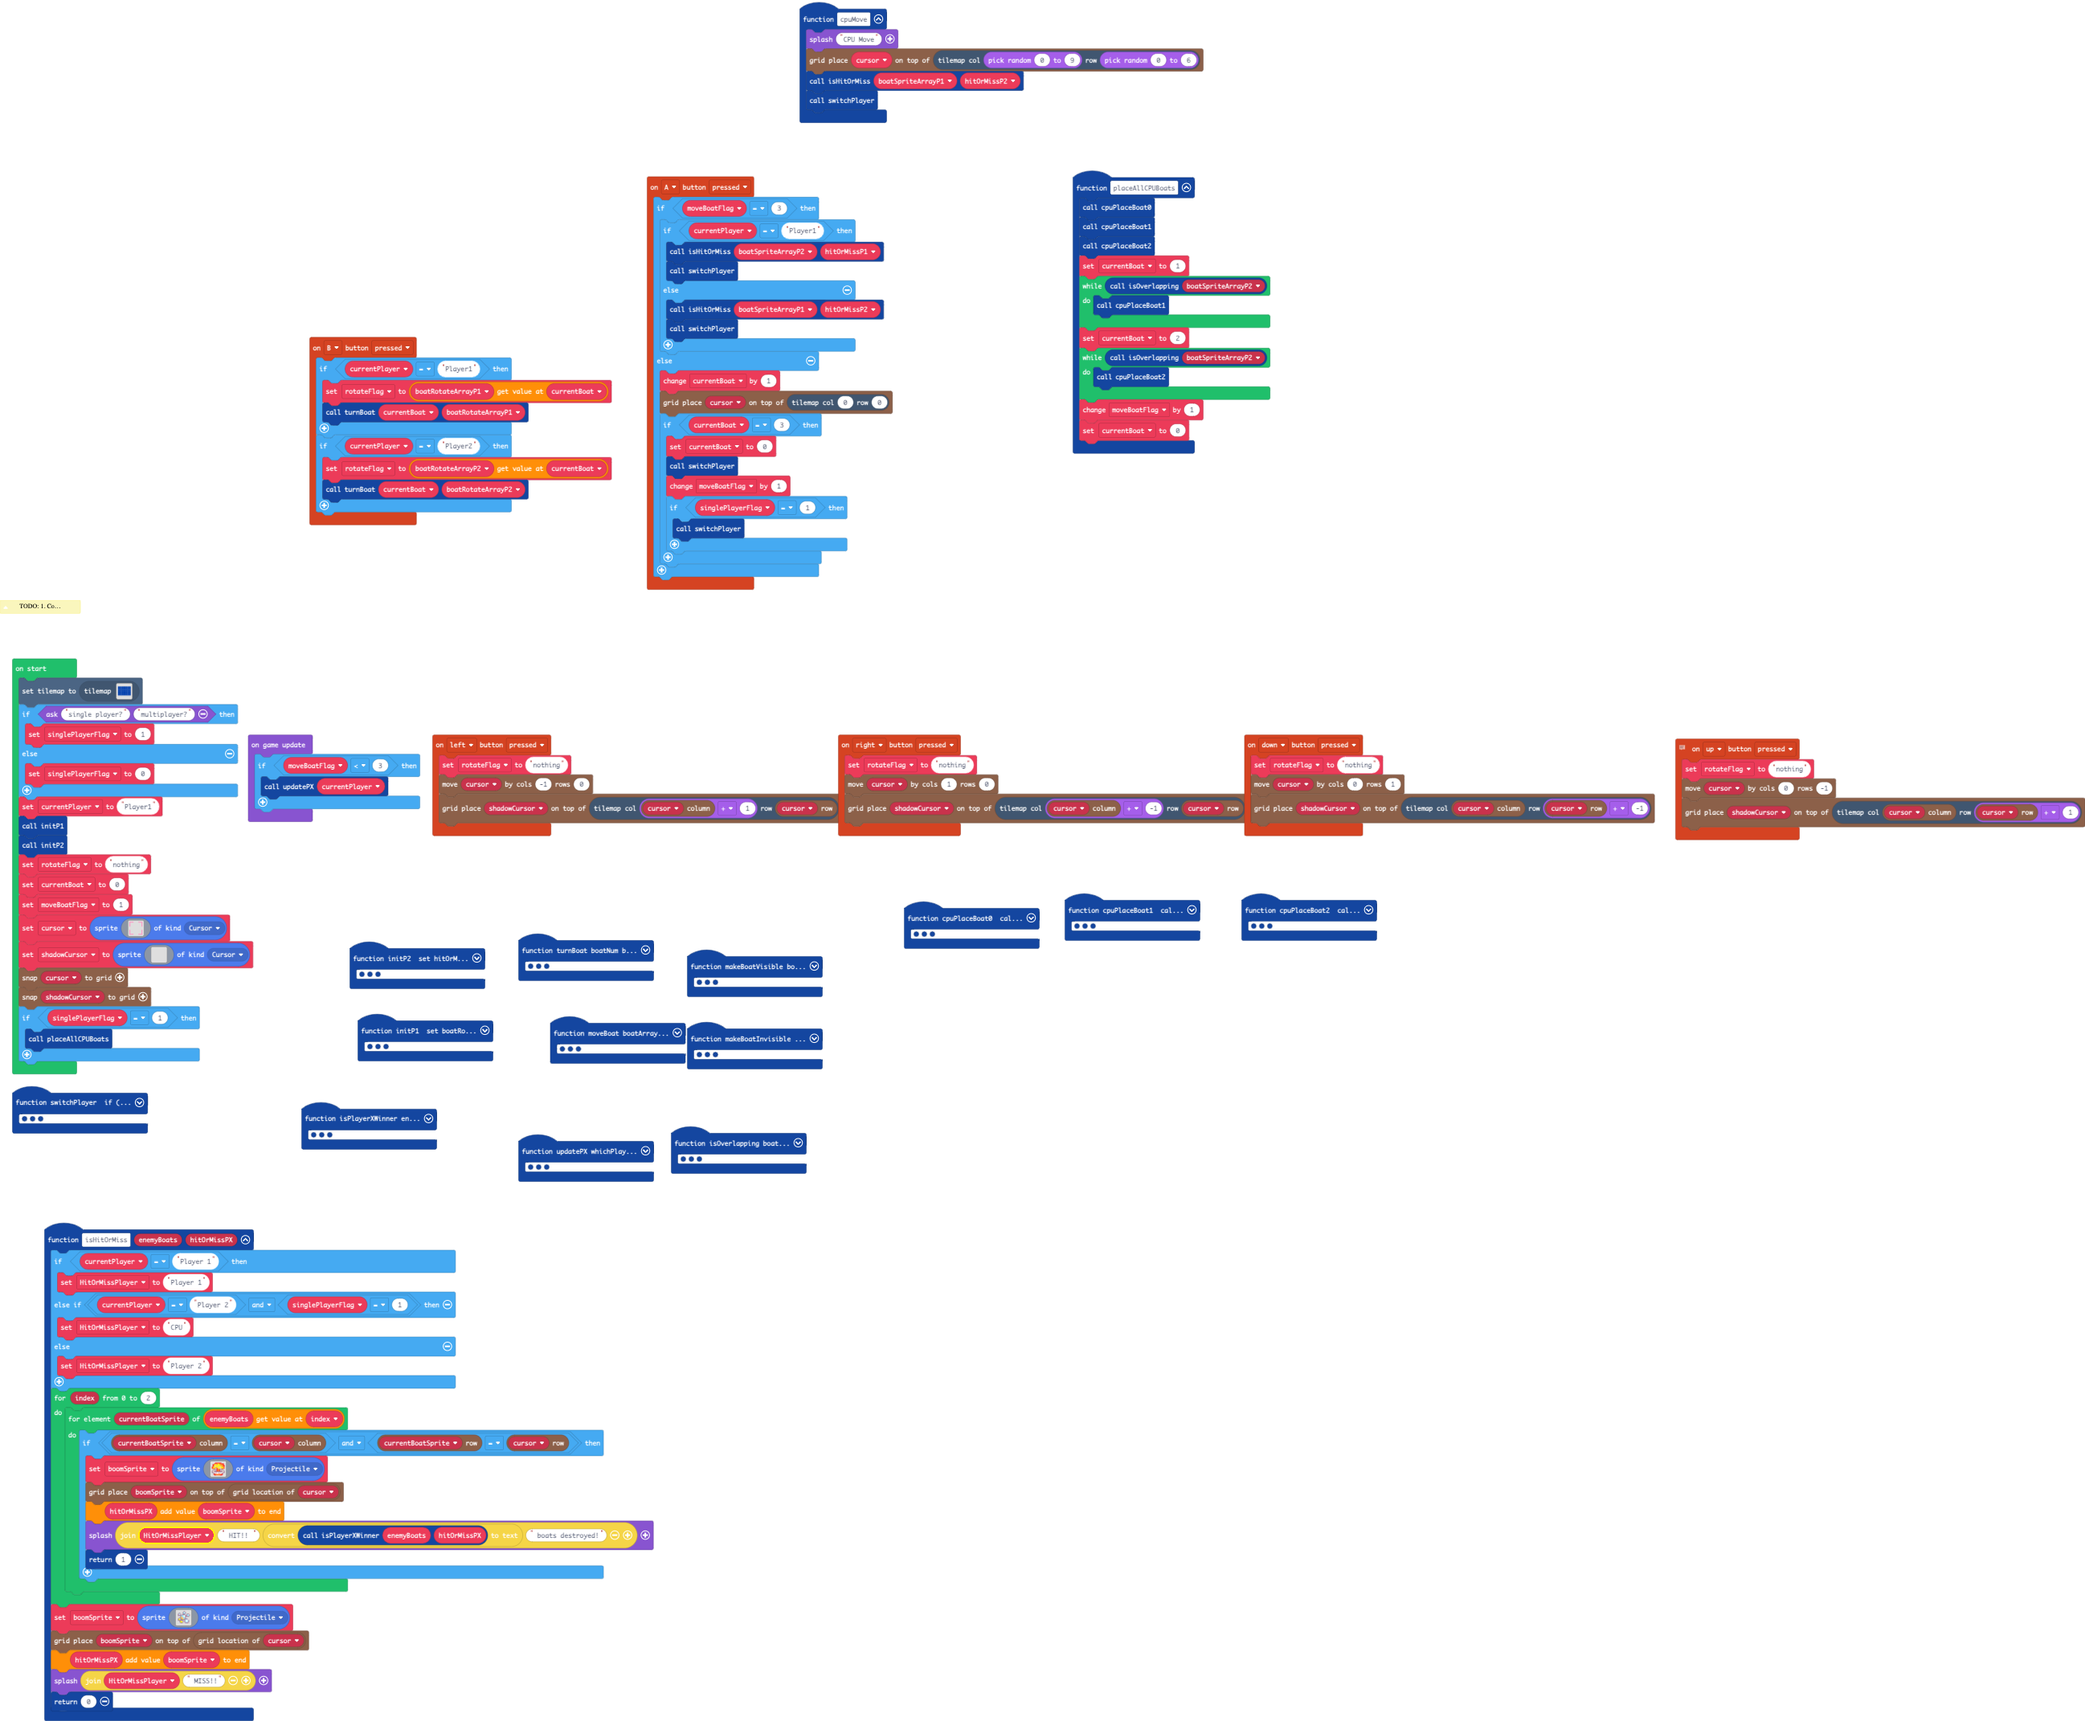
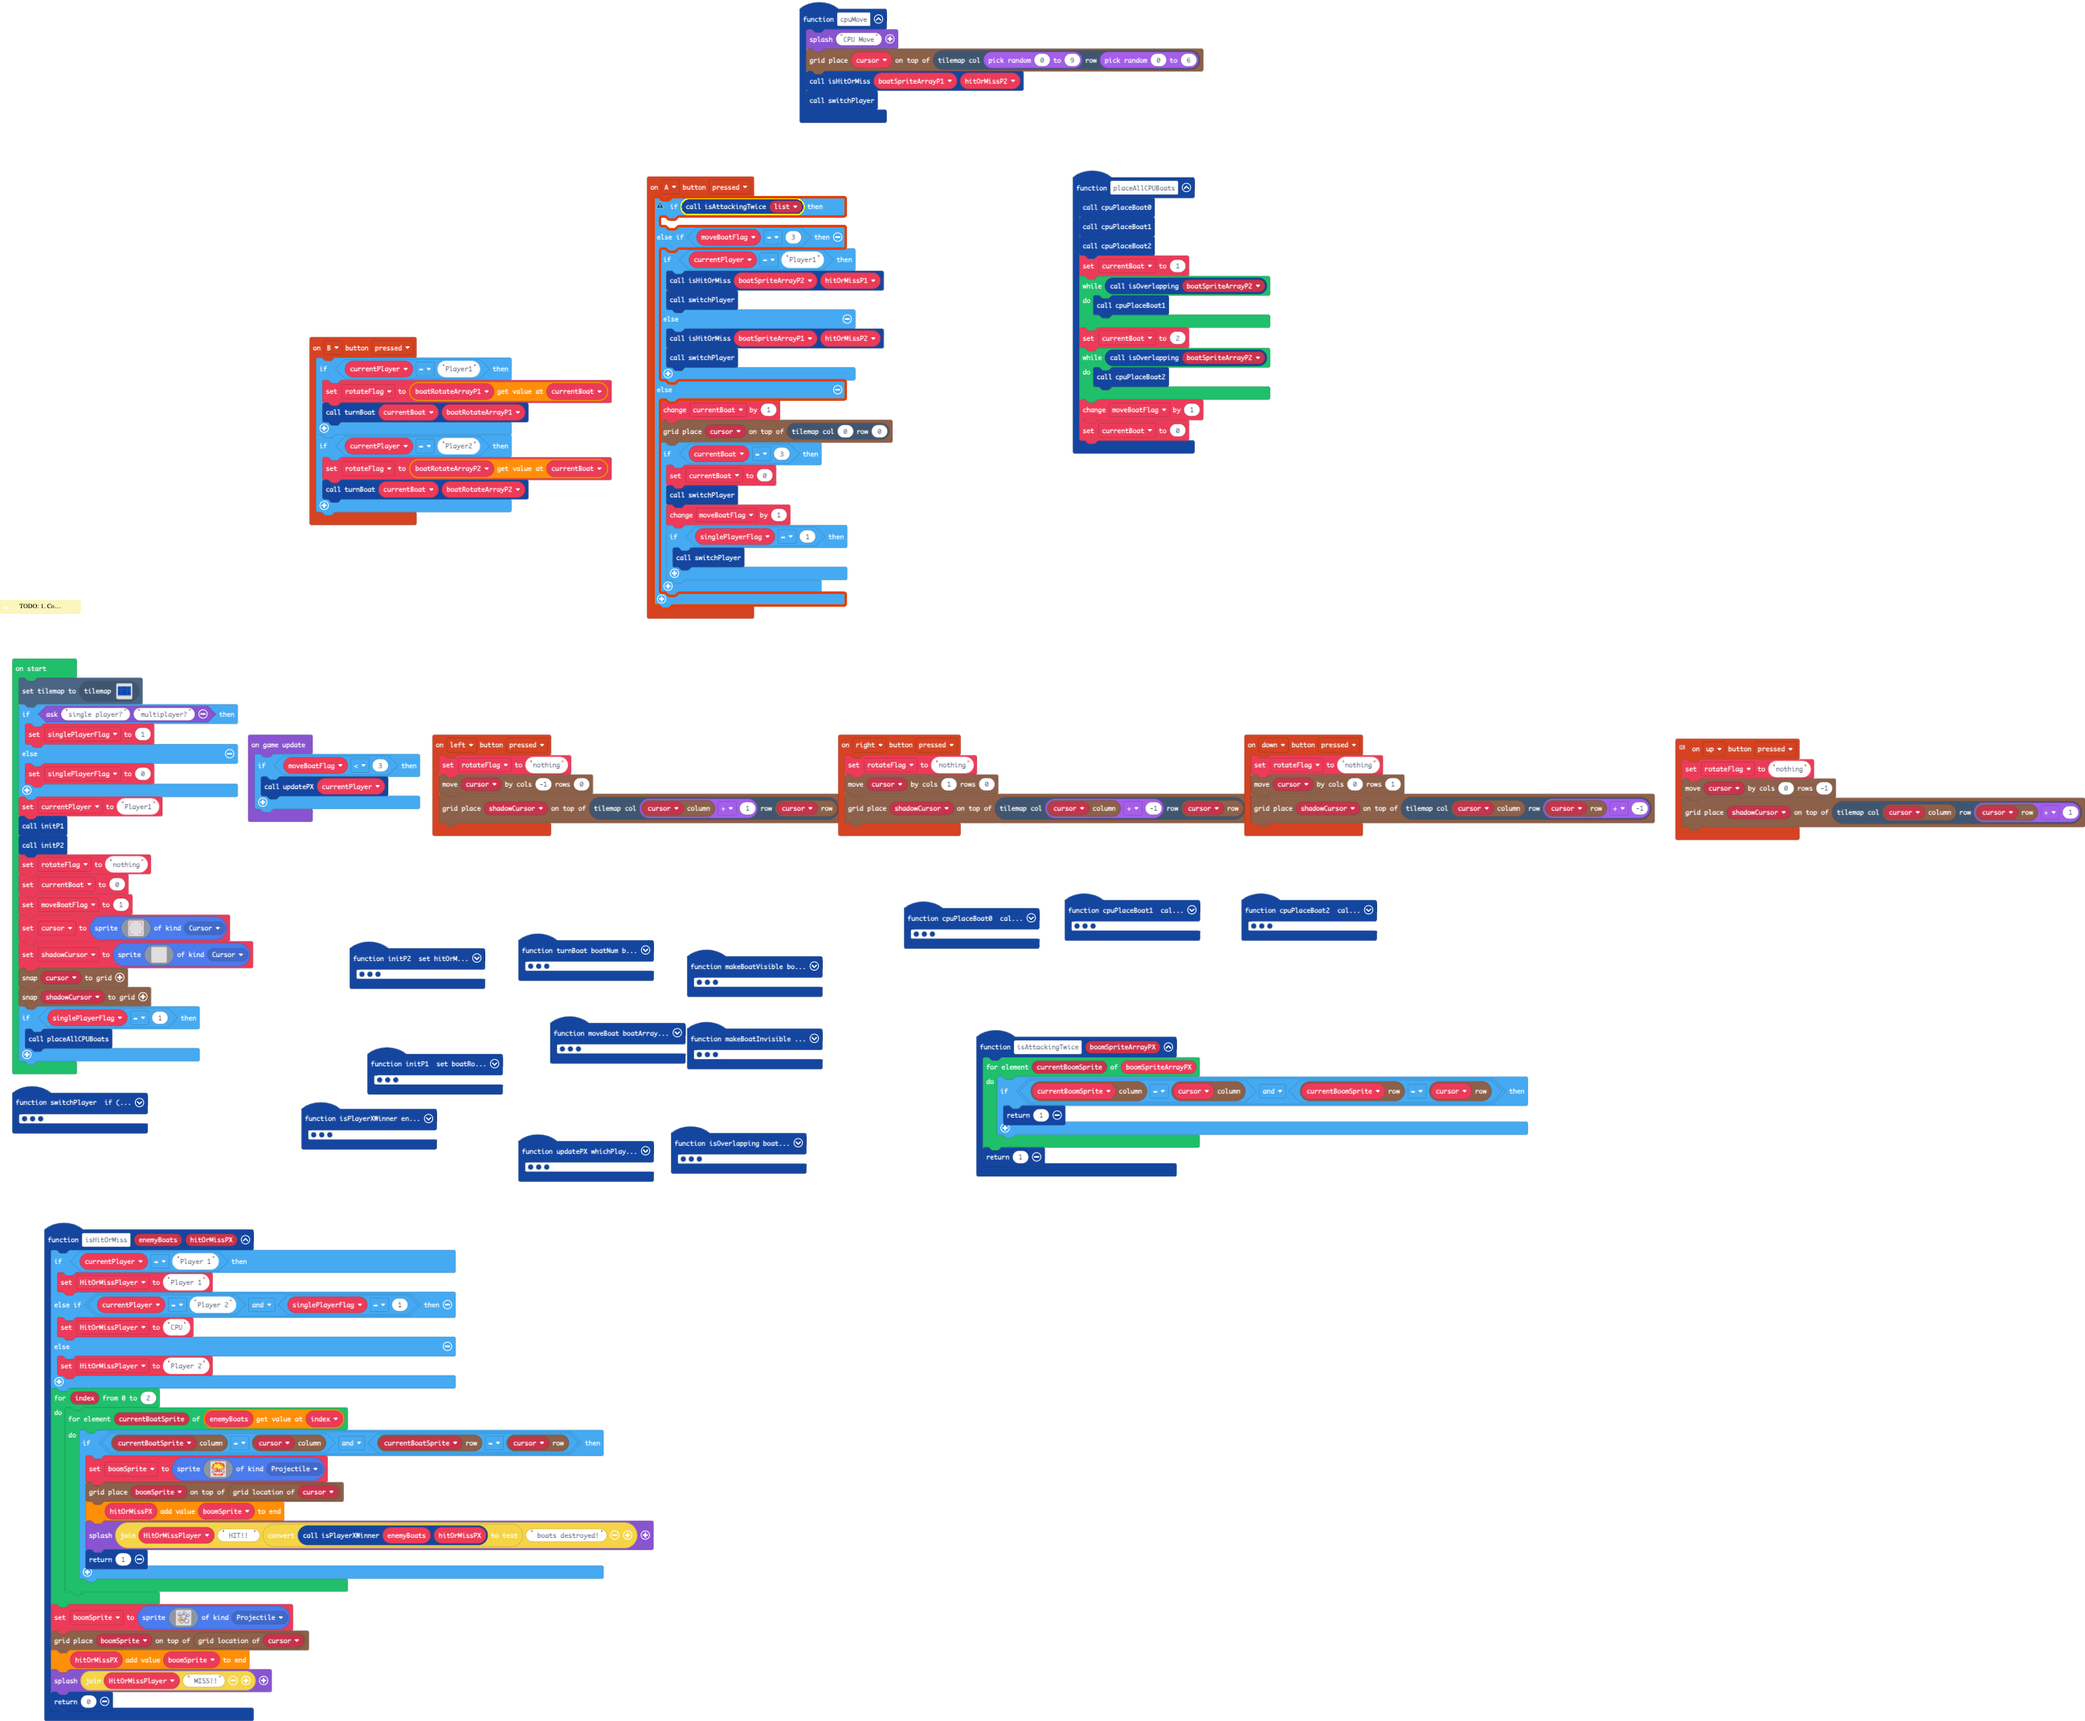
working on isAttackingTwice function

Changed region(s): [[0.3121, 0.0924, 0.437, 0.3697], [0.4682, 0.5854, 0.7491, 0.7087], [0.1561, 0.5854, 0.2497, 0.6471]]

diff --git a/main.ts b/main.ts
@@ -90,7 +90,10 @@ function isPlayerXWinner (enemyBoats: Sprite[][], hitOrMissPX: Sprite[]) {
     return killCount
 }
 controller.A.onEvent(ControllerButtonEvent.Pressed, function () {
-    if (moveBoatFlag == 3) {
+    let list: number[] = []
+    if (isAttackingTwice(list)) {
+    	
+    } else if (moveBoatFlag == 3) {
         if (currentPlayer == "Player1") {
             isHitOrMiss(boatSpriteArrayP2, hitOrMissP1)
             switchPlayer()
@@ -443,6 +446,14 @@ function cpuPlaceBoat1 () {
         grid.place(boatSpriteArrayP2[1][1], grid.add(grid.getLocation(cursor), 0, 1))
         grid.place(boatSpriteArrayP2[1][2], grid.add(grid.getLocation(cursor), 0, 2))
     }
+}
+function isAttackingTwice (boomSpriteArrayPX: Sprite[]) {
+    for (let currentBoomSprite of boomSpriteArrayPX) {
+        if (grid.spriteCol(currentBoomSprite) == grid.spriteCol(cursor) && grid.spriteRow(currentBoomSprite) == grid.spriteRow(cursor)) {
+            return 1
+        }
+    }
+    return 1
 }
 function initP2 () {
     hitOrMissP2 = [sprites.create(img`
